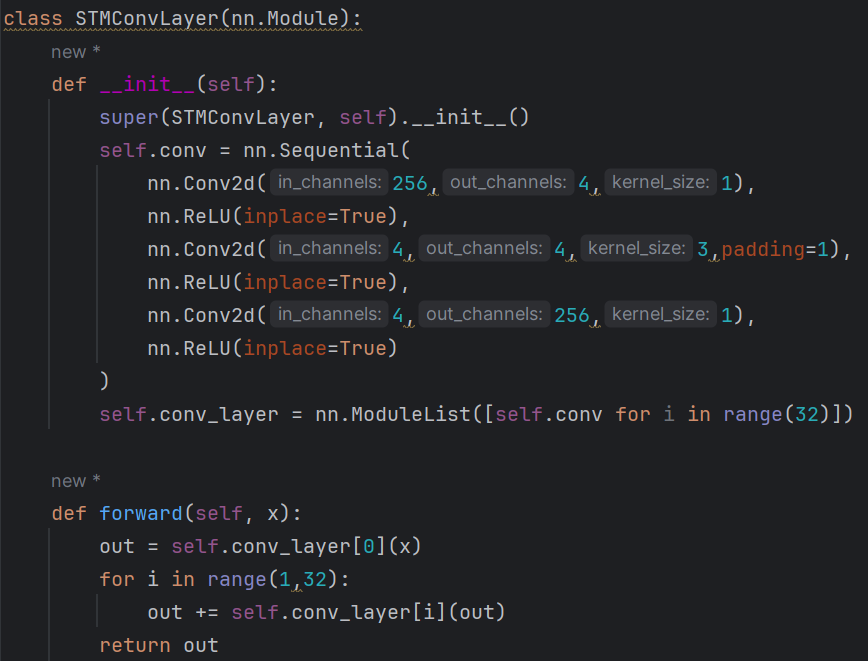
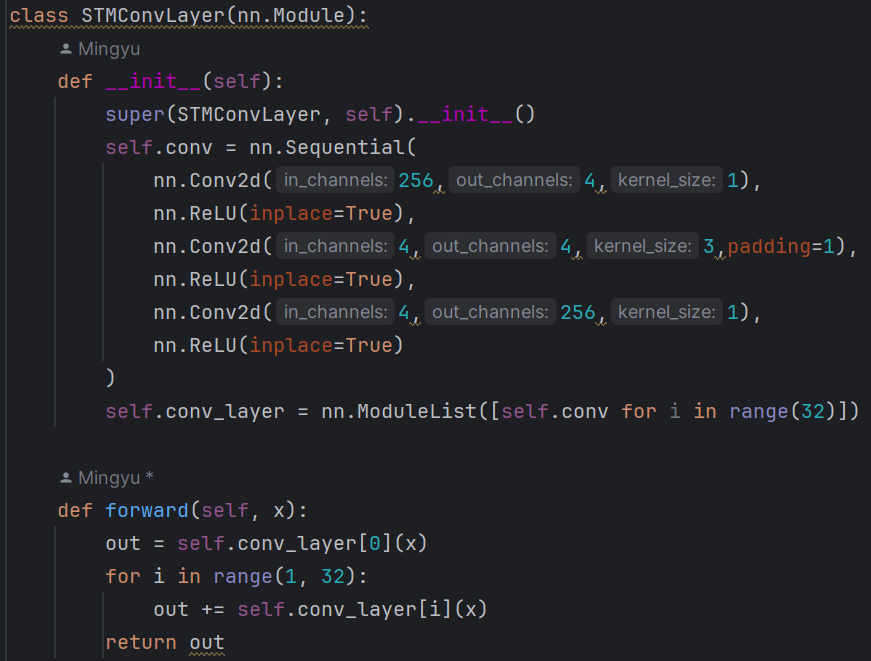
update

diff --git a/HW6/p4.py b/HW6/p4.py
@@ -9,7 +9,7 @@ class MyConvLayer(nn.Module):
         super(MyConvLayer, self).__init__()
         self.conv1 = nn.Conv2d(256,128, 1)
         self.conv2 = nn.Conv2d(128, 128, 3, padding=1)
-        self.conv3 = nn.Conv2d(256, 256, 1)
+        self.conv3 = nn.Conv2d(128, 256, 1)
 
     def forward(self, x):
         out = nn.functional.relu(self.conv1(x))
@@ -32,6 +32,6 @@ class STMConvLayer(nn.Module):
 
     def forward(self, x):
         out = self.conv_layer[0](x)
-        for i in range(1,32):
-            out += self.conv_layer[i](out)
+        for i in range(1, 32):
+            out += self.conv_layer[i](x)
         return out
